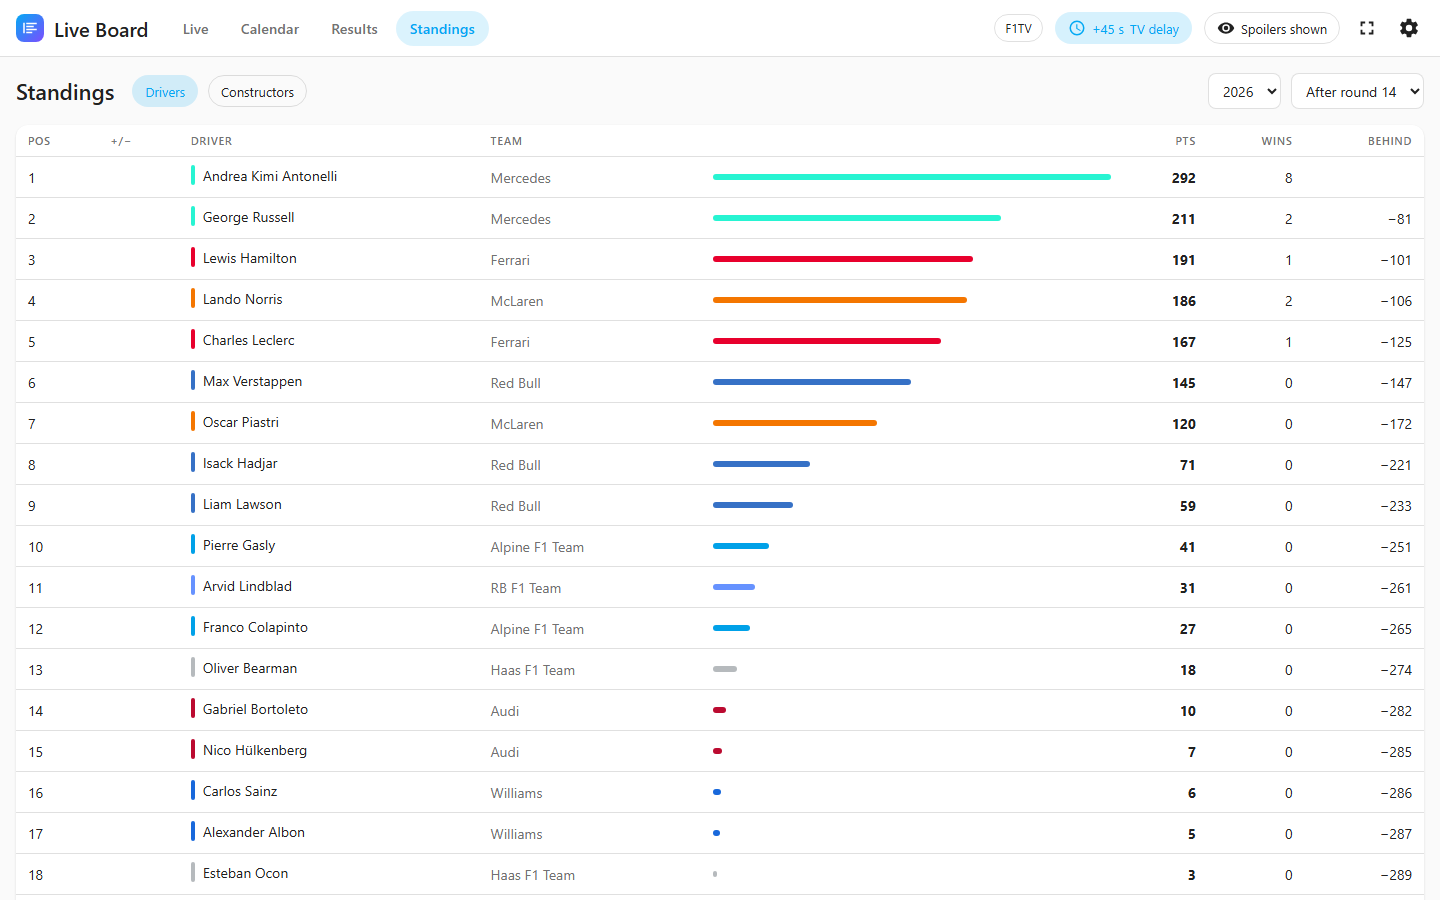
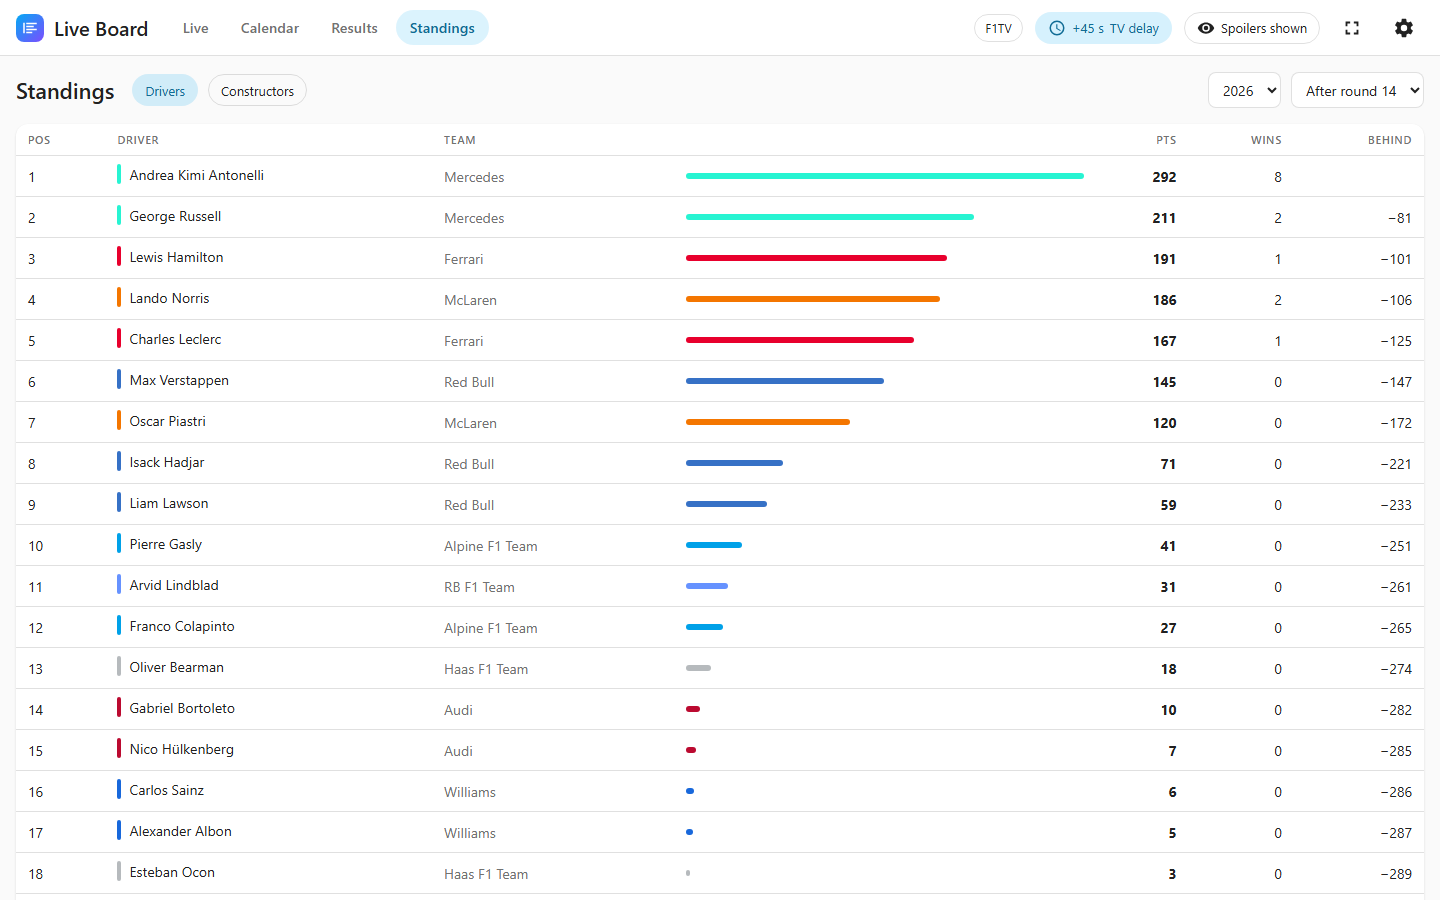
Release 0.8.0: the full review, merged
Four fix branches (core, clients, hub, frontend) on top of each other, the map
limited to the session's cars, docs and version.

diff --git a/custom_components/pit_lane_live_board/hub.py b/custom_components/pit_lane_live_board/hub.py
@@ -997,8 +997,14 @@ class Hub:
             return json_bytes({"full": True, "outline": None, "cars": [], "utc": None})
         outline = live.outline
         cars = []
+        drivers = live.state.get("DriverList")
+        # Only the session's cars: F1's position feed also carries entries for
+        # cars that are not racing (reserve numbers, a car already withdrawn).
+        entered = set(drivers) if isinstance(drivers, dict) and drivers else None
         if outline is not None:
             for number, pos in live.state.positions.items():
+                if entered is not None and number not in entered:
+                    continue
                 x, y = outline.project(pos.x, pos.y)
                 cars.append(
                     {"number": number, "x": x, "y": y, "on_track": pos.on_track}

diff --git a/tests/ha/test_clients_live.py b/tests/ha/test_clients_live.py
@@ -218,6 +218,9 @@ async def test_a_403_for_everyone_is_not_the_tokens_fault():
 
 async def test_silence_is_a_failure_and_checked_on_time():
     live = client(FakeSession([{"connectionToken": "c"}]))
+    # Silence counts from the later of the connection and the last message:
+    # make the connection the only clock, 2 s before the limit.
+    live.last_message = None
     live._connected_at = livetiming.time.monotonic() - livetiming.SILENCE_LIMIT + 2
     timeouts: list[float] = []
 

diff --git a/custom_components/pit_lane_live_board/const.py b/custom_components/pit_lane_live_board/const.py
@@ -5,7 +5,7 @@ from __future__ import annotations
 DOMAIN = "pit_lane_live_board"
 NAME = "Pit Lane Live Board"
 # Kept equal to manifest.json and pyproject.toml by a test.
-VERSION = "0.7.0"
+VERSION = "0.8.0"
 REPOSITORY = "https://github.com/foyer-labs/Pit-Lane-Live-Board"
 
 # Every request says who is asking (INV-4; Jolpica asks for it).

diff --git a/CHANGELOG.md b/CHANGELOG.md
@@ -6,6 +6,60 @@ under **Changed — read before updating**.
 
 ## [Unreleased]
 
+## [0.8.0] - 2026-09-27
+
+A complete review of the code, by ten reviewers, for bugs and above all for resources:
+less sent, less written, less work in the browser.
+
+### Changed — read before updating
+- **Session events:** `session_started` fires at the first start of a session only, and
+  `session_ended` at the end of its last part (qualifying no longer fires them for every
+  part). The chequered flag still fires once per part.
+- The **Driver** sensors no longer carry `laps` and `tyre_age` (they changed every lap
+  and filled the history).
+
+### Improved
+- **Much less data during a race:** the timing tower travels as the rows that changed,
+  not whole twice a second (about a quarter of the data), and nothing is sent again
+  when nothing changed. Each open page and card benefits.
+- **A lighter Live page:** only the parts that changed are redrawn; the cars on the map
+  move on the graphics card; nothing is drawn while the tab is hidden.
+- **Fewer writes to disk and to the history:** entities write only when their own value
+  changes; settings are saved only when they change; event marks at most every 30 s;
+  the cache no longer touches files on every read and does not rewrite identical data.
+- **Fewer requests:** the cards share one settings subscription; pages keep what they
+  loaded when you switch tab; old seasons no longer use the calendar's reserve.
+- **The layout follows the panel's own width**, so it fits with Home Assistant's
+  sidebar open; the header never overflows; phone tables keep their key column; better
+  contrast for green and purple times; bigger touch targets on phones.
+- **Track map:** labels no longer overlap, retired cars and cars not in the session are
+  not drawn, and the provisional map of a new circuit widens as the cars go round.
+- **Kiosk:** the screen stays awake after the tab comes back, 22 rows fit on a 1080p
+  TV, `scale=` enlarges the header too, `?kiosk=0` turns it off.
+- The Italian panel translates "Leader", laps down and the session names.
+
+### Fixed
+- Stewards: "investigated after the session/sprint", "stop-and-go" penalties, `UPDATE:`
+  messages, deleted laps for other reasons and VSC messages are read correctly.
+- A red-flag stoppage no longer reads green when F1 sets the track clear while the cars
+  are still stopped.
+- Retirements are detected like F1's classification (cars stopped and hidden, or under
+  90% of the winner's laps), in the tower and in the summary.
+- "My drivers" `pit_out` reports the new tyre, and no pit events fire before the start.
+- The qualifying drop zone is the real one.
+- Lapped cars show "+1 lap" in race results instead of a time.
+- A settled round is never served from a copy cached before the race; an archive
+  missing its index is read anyway; seasons F1's archive does not serve (2022) no
+  longer offer tabs that are always empty; standings with more than 100 rows are
+  complete; Jolpica is given a rest after a 429.
+- The live connection never stops for a malformed message or a bad reply; a 403 from
+  F1's servers is no longer blamed on your F1TV token; the connection gives up a stalled
+  opening after 20 s; retries are spread out.
+- The Live page picks up the newest finished session while it stays open; open pages
+  are refreshed after a reload; removing the integration also removes its saved data.
+- The calendar and standings refresh while open; the standings card follows no-spoiler
+  mode at once.
+
 ## [0.7.0] - 2026-09-27
 
 ### Added

diff --git a/docs/SPEC.md b/docs/SPEC.md
@@ -166,7 +166,9 @@ here was checked against source code or a live request; the unverified ones are 
 - **Our rules:**
   - Download once and keep on disk under `<config>/.cache/pit_lane_live_board/` with a
     500 MB cap and least-recently-used eviction.
-  - Parse in the executor, line by line; never load a whole stream into memory at once.
+  - Parse in the executor. Files are downloaded whole and parsed from memory (decision
+    45): at most 2 builds at a time and 48 MB per file; derived forms are cached with a
+    version in their key, so a parser fix reaches races opened before.
   - `Position.z` for past sessions is downloaded **only** to build a track outline
     (§6.5), never for replay.
 
@@ -1029,6 +1031,18 @@ Decisions taken in chat with the owner.
   (the default) or full, which appends the whole classification: gap and best lap in
   races and sprints, best lap and gap in qualifying and practice, retirements with
   their last lap. Chosen by administrators with the rest of the summary.
+
+57. **A full review before 0.8** (asked by the owner): ten review agents (live backend,
+  live client, history and cache, storage, Home Assistant layer, frontend performance,
+  cards and pages, visuals, core logic against real data, security), fixed by four.
+  What changed in the design: the tower travels as row patches (`tower_patch: {order,
+  rows}` in partial messages; full messages keep `tower`); identical partial views are
+  not sent again; sections are computed once per publish; entities write only when
+  their own state changed; the live client never stops on bad data and backs off with
+  jitter and `Retry-After`; Jolpica is held back after a 429 or an outage; settled
+  rounds have their own cache key; the panel follows its own width, not the window's.
+  Session events: `session_started` on the first start only, `session_ended` at the
+  end of the last part; a red-flag stoppage stays red while the session is aborted.
 
 ---
 

diff --git a/docs/guide.it.md b/docs/guide.it.md
@@ -328,9 +328,9 @@ può comunque leggerli da una card o dalle entità.
 Segui fino a cinque piloti dalle Impostazioni. Per ognuno:
 
 - un sensore, **Pilota LEC**, con la posizione come stato e, negli attributi, miglior
-  giro, gomma e giri della gomma, stint, soste, penalità, stato e posizioni guadagnate
-  (distacchi e tempi sul giro cambiano ogni pochi secondi: restano nella pagina e nelle
-  card, così il registro non viene scritto due volte al secondo);
+  giro, gomma, stint, soste, penalità, stato e posizioni guadagnate (distacchi, tempi
+  sul giro e giri della gomma cambiano a ogni giro o più spesso: restano nella pagina e
+  nelle card, così il registro non viene scritto di continuo);
 - una ★ accanto alla sigla nella classifica, e la riga evidenziata nella card della
   classifica se non ha un pilota suo;
 - l'evento **I miei piloti**: `position_gained`, `position_lost`, `took_lead`, `pit_in`,
@@ -398,7 +398,16 @@ escluderlo dal registro). Il suo stato è quello della pagina Live (`live`, `fin
 | `next_meeting`, `next_session`, `next_start` | la prossima sessione, per un conto alla rovescia |
 
 Lo schermo non parla mai con la F1: il ritardo TV e la modalità senza spoiler sono già
-applicati.
+applicati. Scrive solo quando ciò che mostra cambia, ma durante una sessione succede
+ogni pochi secondi: per tenerlo fuori dalla cronologia di Home Assistant, aggiungi a
+`configuration.yaml`:
+
+```yaml
+recorder:
+  exclude:
+    entities:
+      - sensor.pit_lane_live_board_small_screen
+```
 
 ```yaml
 # ESPHome: legge da Home Assistant quello che serve allo schermo.

diff --git a/docs/guide.md b/docs/guide.md
@@ -312,10 +312,10 @@ them through a card or the entities.
 
 Follow up to five drivers in Settings. For each one:
 
-- a sensor, **Driver LEC**, whose state is the position, with best lap, tyre and its
-  age, stint, pit stops, penalty, status and places gained as attributes (gaps and lap
-  times move every few seconds: they stay on the page and the cards, so the recorder is
-  not written twice a second);
+- a sensor, **Driver LEC**, whose state is the position, with best lap, tyre, stint,
+  pit stops, penalty, status and places gained as attributes (gaps, lap times and the
+  laps on a tyre move every lap or faster: they stay on the page and the cards, so the
+  recorder is not written all the time);
 - a ★ next to their code in the timing tower, and their row highlighted in the tower
   card when it has no driver of its own;
 - the **My drivers** event: `position_gained`, `position_lost`, `took_lead`, `pit_in`,
@@ -381,6 +381,15 @@ are short and flat, ready to print:
 | `next_meeting`, `next_session`, `next_start` | the next session, for a countdown |
 
 The screen never talks to F1: the TV delay and no-spoiler mode are already applied.
+It writes only when what it shows changed, but during a session that is every few
+seconds: to keep it out of Home Assistant's history, add this to `configuration.yaml`:
+
+```yaml
+recorder:
+  exclude:
+    entities:
+      - sensor.pit_lane_live_board_small_screen
+```
 
 ```yaml
 # ESPHome: read what the screen needs from Home Assistant.
